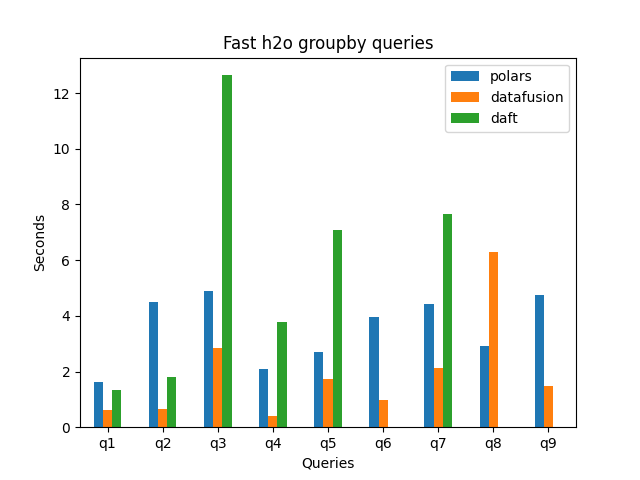
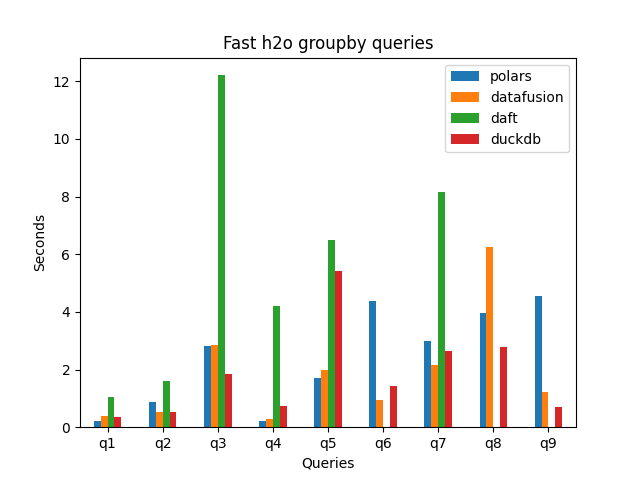
add duckdb groupby queries

diff --git a/benchmarks/duckdb_h2o_groupby_queries.py b/benchmarks/duckdb_h2o_groupby_queries.py
@@ -1,42 +1,83 @@
 import duckdb
+from helpers import benchmark, get_results
+import sys
+import pandas as pd
 
-def q1(df):
-    return duckdb.sql(f"SELECT * FROM read_parquet('{df}');").df()
-
-
-def q2(ctx):
-    return ctx.sql("select id1, id2, sum(v1) as v1 from x group by id1, id2").collect()
-
-
-def q3(ctx):
-    return ctx.sql("select count(distinct(id3)) from x").collect()
-    # return ctx.sql("select id3, sum(v1) as v1, avg(v3) as v3 from x group by id3").collect()
+def q1(path):
+    return duckdb.sql(f"SELECT id1, sum(v1) as v1 FROM read_parquet('{path}') group by id1;").df()
 
 
-def q4(ctx):
-    return ctx.sql("select id4, avg(v1) as v1, avg(v2) as v2, avg(v3) as v3 from x group by id4").collect()
+def q2(path):
+    return duckdb.sql(f"select id1, id2, sum(v1) as v1 from read_parquet('{path}') group by id1, id2").df()
 
 
-def q5(ctx):
-    return ctx.sql("select id6, sum(v1) as v1, sum(v2) as v2, sum(v3) as v3 from x group by id6").collect()
+def q3(path):
+    return duckdb.sql(f"select count(distinct(id3)) from read_parquet('{path}')").df()
 
 
-def q6(ctx):
-    return ctx.sql("select id4, id5, median(v3) as median_v3, stddev(v3) as sd_v3 from x group by id4, id5").collect()
+def q4(path):
+    return duckdb.sql(f"select id4, avg(v1) as v1, avg(v2) as v2, avg(v3) as v3 from read_parquet('{path}') group by id4").df()
 
 
-def q7(ctx):
-    return ctx.sql("select id3, max(v1)-min(v2) as range_v1_v2 from x group by id3").collect()
+def q5(path):
+    return duckdb.sql(f"select id6, sum(v1) as v1, sum(v2) as v2, sum(v3) as v3 from read_parquet('{path}') group by id6").df()
 
 
-def q8(ctx):
-    return ctx.sql("select id6, largest2_v3 from (select id6, v3 as largest2_v3, row_number() over (partition by id6 order by v3 desc) as order_v3 from x where v3 is not null) sub_query where order_v3 <= 2").collect()
+def q6(path):
+    return duckdb.sql(f"select id4, id5, median(v3) as median_v3, stddev(v3) as sd_v3 from read_parquet('{path}') group by id4, id5").df()
 
 
-def q9(ctx):
-    return ctx.sql("select id2, id4, power(corr(v1, v2), 2) as r2 from x group by id2, id4").collect()
+def q7(path):
+    return duckdb.sql(f"select id3, max(v1)-min(v2) as range_v1_v2 from read_parquet('{path}') group by id3").df()
 
 
-def q10(ctx):
-    return ctx.sql("select id1, id2, id3, id4, id5, id6, sum(v3) as v3, count(*) as count from x group by id1, id2, id3, id4, id5, id6").collect()
+def q8(path):
+    return duckdb.sql(f"select id6, largest2_v3 from (select id6, v3 as largest2_v3, row_number() over (partition by id6 order by v3 desc) as order_v3 from read_parquet('{path}') where v3 is not null) sub_query where order_v3 <= 2").df()
 
+
+def q9(path):
+    return duckdb.sql(f"select id2, id4, power(corr(v1, v2), 2) as r2 from read_parquet('{path}') group by id2, id4").df()
+
+
+def q10(path):
+    return duckdb.sql(f"select id1, id2, id3, id4, id5, id6, sum(v3) as v3, count(*) as count from read_parquet('{path}') group by id1, id2, id3, id4, id5, id6").df()
+
+
+paths = [sys.argv[1]]
+def run_benchmarks(paths):
+    path = paths[0]
+
+    duckdb_benchmarks = {
+        "duration": [],  # in seconds
+        "task": [],
+    }
+
+    benchmark(q1, dfs=path, benchmarks=duckdb_benchmarks, name="q1")
+    benchmark(q2, dfs=path, benchmarks=duckdb_benchmarks, name="q2")
+    benchmark(q3, dfs=path, benchmarks=duckdb_benchmarks, name="q3")
+    benchmark(q4, dfs=path, benchmarks=duckdb_benchmarks, name="q4")
+    benchmark(q5, dfs=path, benchmarks=duckdb_benchmarks, name="q5")
+    benchmark(q6, dfs=path, benchmarks=duckdb_benchmarks, name="q6")
+    benchmark(q7, dfs=path, benchmarks=duckdb_benchmarks, name="q7")
+    benchmark(q8, dfs=path, benchmarks=duckdb_benchmarks, name="q8")
+    benchmark(q9, dfs=path, benchmarks=duckdb_benchmarks, name="q9")
+    # benchmark(q10, dfs=path, benchmarks=duckdb_benchmarks, name="q10")
+
+    duckdb_res_temp = get_results(duckdb_benchmarks).set_index("task")
+    print(duckdb_res_temp)
+    return duckdb_res_temp
+
+
+def run_benchmarks_slow(paths):
+    path = paths[0]
+
+    duckdb_benchmarks = {
+        "duration": [],  # in seconds
+        "task": [],
+    }
+
+    benchmark(q10, dfs=path, benchmarks=duckdb_benchmarks, name="q10")
+
+    duckdb_res_temp = get_results(duckdb_benchmarks).set_index("task")
+    print(duckdb_res_temp)
+    return duckdb_res_temp

diff --git a/benchmarks/run_all_groupby.py b/benchmarks/run_all_groupby.py
@@ -6,39 +6,49 @@ import pandas as pd
 import polars_h2o_groupby_queries
 import datafusion_h2o_groupby_queries
 import daft_h2o_groupby_queries
+import duckdb_h2o_groupby_queries
 from datafusion import SessionContext
 
 path = sys.argv[1]
 
 # Fast group by queries
 
-# polars
-print("*** Polars ***")
-df = pl.scan_parquet(path, low_memory=True)
-polars_res = polars_h2o_groupby_queries.run_benchmarks([df]).rename(columns={"duration": "polars"})
-print(polars_res)
+# # polars
+# print("*** Polars ***")
+# df = pl.scan_parquet(path, low_memory=True)
+# polars_res = polars_h2o_groupby_queries.run_benchmarks([df]).rename(columns={"duration": "polars"})
+# print(polars_res)
 
-# datafusion
-print("*** DataFusion ***")
-ctx = SessionContext()
-df = ctx.register_parquet("x", path)
-datafusion_res = datafusion_h2o_groupby_queries.run_benchmarks(ctx).rename(columns={"duration": "datafusion"})
-print(datafusion_res)
+# # datafusion
+# print("*** DataFusion ***")
+# ctx = SessionContext()
+# df = ctx.register_parquet("x", path)
+# datafusion_res = datafusion_h2o_groupby_queries.run_benchmarks(ctx).rename(columns={"duration": "datafusion"})
+# print(datafusion_res)
 
-# daft
-print("*** Daft ***")
-df = daft.read_parquet(path)
-daft_res = daft_h2o_groupby_queries.run_benchmarks([df]).rename(columns={"duration": "daft"})
+# # daft
+# print("*** Daft ***")
+# df = daft.read_parquet(path)
+# daft_res = daft_h2o_groupby_queries.run_benchmarks([df]).rename(columns={"duration": "daft"})
 
-# all results
-res = polars_res.join(datafusion_res, on="task").join(daft_res, on="task")
-print(res)
+# # duckdb
+# print("*** DuckDB ***")
+# duckdb_res = duckdb_h2o_groupby_queries.run_benchmarks([path]).rename(columns={"duration": "duckdb"})
 
-ax = res.plot.bar(rot=0)
-ax.set_title('Fast h2o groupby queries')
-ax.set_ylabel('Seconds')
-ax.set_xlabel('Queries')
-ax.figure.savefig("images/groupby-fast.png")
+# # all results
+# res = (
+#     polars_res
+#     .join(datafusion_res, on="task")
+#     .join(daft_res, on="task")
+#     .join(duckdb_res, on="task")
+# )
+# print(res)
+
+# ax = res.plot.bar(rot=0)
+# ax.set_title('Fast h2o groupby queries')
+# ax.set_ylabel('Seconds')
+# ax.set_xlabel('Queries')
+# ax.figure.savefig("images/groupby-fast.png")
 
 # Slow group by queries
 
@@ -60,8 +70,12 @@ print("*** Daft ***")
 df = daft.read_parquet(path)
 daft_res = daft_h2o_groupby_queries.run_benchmarks_slow([df]).rename(columns={"duration": "daft"})
 
+# duckdb
+print("*** DuckDB ***")
+duckdb_res = duckdb_h2o_groupby_queries.run_benchmarks_slow([path]).rename(columns={"duration": "duckdb"})
+
 # all results
-res = polars_res.join(datafusion_res, on="task").join(daft_res, on="task")
+res = polars_res.join(datafusion_res, on="task").join(daft_res, on="task").join(duckdb_res, on="task")
 print(res)
 
 ax = res.plot.bar(rot=0)

diff --git a/benchmarks/polars_h2o_groupby_queries.py b/benchmarks/polars_h2o_groupby_queries.py
@@ -4,32 +4,32 @@ from helpers import benchmark, get_results
 
 
 def q1(df):
-    return df.group_by("id1").agg(pl.sum("v1")).collect()
+    return df.group_by("id1").agg(pl.sum("v1")).collect(engine="streaming")
 
 
 def q2(df):
-    return df.group_by(["id1", "id2"]).agg(pl.sum("v1")).collect()
+    return df.group_by(["id1", "id2"]).agg(pl.sum("v1")).collect(engine="streaming")
 
 
 def q3(df):
-    return df.group_by("id3").agg([pl.sum("v1"), pl.mean("v3")]).collect()
+    return df.group_by("id3").agg([pl.sum("v1"), pl.mean("v3")]).collect(engine="streaming")
 
 
 def q4(df):
     return (
-        df.group_by("id4").agg([pl.mean("v1"), pl.mean("v2"), pl.mean("v3")]).collect()
+        df.group_by("id4").agg([pl.mean("v1"), pl.mean("v2"), pl.mean("v3")]).collect(engine="streaming")
     )
 
 
 def q5(df):
-    return df.group_by("id6").agg([pl.sum("v1"), pl.sum("v2"), pl.sum("v3")]).collect()
+    return df.group_by("id6").agg([pl.sum("v1"), pl.sum("v2"), pl.sum("v3")]).collect(engine="streaming")
 
 
 def q6(df):
     return (
         df.group_by(["id4", "id5"])
         .agg([pl.median("v3").alias("v3_median"), pl.std("v3").alias("v3_std")])
-        .collect()
+        .collect(engine="streaming")
     )
 
 
@@ -37,23 +37,23 @@ def q7(df):
     return (
         df.group_by("id3")
         .agg([(pl.max("v1") - pl.min("v2")).alias("range_v1_v2")])
-        .collect()
+        .collect(engine="streaming")
     )
 
 
 def q8(df):
-    return df.drop_nulls("v3").group_by("id6").agg(col("v3").top_k(2).alias("largest2_v3")).explode("largest2_v3").collect()
+    return df.drop_nulls("v3").group_by("id6").agg(col("v3").top_k(2).alias("largest2_v3")).explode("largest2_v3").collect(engine="streaming")
 
 
 def q9(df):
-    return df.group_by(["id2","id4"]).agg((pl.corr("v1","v2", method="pearson")**2).alias("r2")).collect()
+    return df.group_by(["id2","id4"]).agg((pl.corr("v1","v2", method="pearson")**2).alias("r2")).collect(engine="streaming")
 
 
 def q10(df):
     return (
         df.group_by(["id1", "id2", "id3", "id4", "id5", "id6"])
         .agg([pl.sum("v3").alias("v3"), pl.count("v1").alias("count")])
-        .collect()
+        .collect(engine="streaming")
     )
 
 def run_benchmarks(dfs):

diff --git a/benchmarks/duckdb_h2o_groupby.py b/benchmarks/duckdb_h2o_groupby.py
@@ -5,22 +5,22 @@ from duckdb_h2o_groupby_queries import *
 
 path = sys.argv[1]
 
-polars_benchmarks = {
+duckdb_benchmarks = {
     "duration": [],  # in seconds
     "task": [],
 }
 
-benchmark(q1, df=path, benchmarks=polars_benchmarks, name="q1")
-# benchmark(q2, df=df, benchmarks=polars_benchmarks, name="q2")
-# benchmark(q3, df=df, benchmarks=polars_benchmarks, name="q3")
-# benchmark(q4, df=df, benchmarks=polars_benchmarks, name="q4")
-# benchmark(q5, df=df, benchmarks=polars_benchmarks, name="q5")
-# benchmark(q6, df=df, benchmarks=polars_benchmarks, name="q6")
-# benchmark(q7, df=df, benchmarks=polars_benchmarks, name="q7")
-# benchmark(q8, df=df, benchmarks=polars_benchmarks, name="q8")
-# benchmark(q9, df=df, benchmarks=polars_benchmarks, name="q9")
-# benchmark(q10, df=df, benchmarks=polars_benchmarks, name="q10")
+benchmark(q1, dfs=path, benchmarks=duckdb_benchmarks, name="q1")
+benchmark(q2, dfs=path, benchmarks=duckdb_benchmarks, name="q2")
+benchmark(q3, dfs=path, benchmarks=duckdb_benchmarks, name="q3")
+benchmark(q4, dfs=path, benchmarks=duckdb_benchmarks, name="q4")
+benchmark(q5, dfs=path, benchmarks=duckdb_benchmarks, name="q5")
+benchmark(q6, dfs=path, benchmarks=duckdb_benchmarks, name="q6")
+benchmark(q7, dfs=path, benchmarks=duckdb_benchmarks, name="q7")
+benchmark(q8, dfs=path, benchmarks=duckdb_benchmarks, name="q8")
+benchmark(q9, dfs=path, benchmarks=duckdb_benchmarks, name="q9")
+# benchmark(q10, dfs=path, benchmarks=duckdb_benchmarks, name="q10")
 
-polars_res_temp = get_results(polars_benchmarks).set_index("task")
+duckdb_res_temp = get_results(duckdb_benchmarks).set_index("task")
 
-print(polars_res_temp)
+print(duckdb_res_temp)

diff --git a/benchmarks/polars_h2o_join_queries.py b/benchmarks/polars_h2o_join_queries.py
@@ -4,27 +4,27 @@ import polars as pl
 
 def q1(dfs):
 	x, small, medium, large = dfs
-	return x.join(small, on="id1").collect()	
+	return x.join(small, on="id1").collect(engine="streaming")	
 
 
 def q2(dfs):
     x, small, medium, large = dfs
-    return x.join(medium, on="id2").collect()
+    return x.join(medium, on="id2").collect(engine="streaming")
 
 
 def q3(dfs):
     x, small, medium, large = dfs
-    return x.join(medium, how="left", on="id2").collect()
+    return x.join(medium, how="left", on="id2").collect(engine="streaming")
 
 
 def q4(dfs):
     x, small, medium, large = dfs
-    return x.join(medium, on="id5").collect()
+    return x.join(medium, on="id5").collect(engine="streaming")
     
 
 def q5(dfs):
     x, small, medium, large = dfs
-    return x.join(large, on="id3").collect()
+    return x.join(large, on="id3").collect(engine="streaming")
     
 
 def run_benchmarks(dfs):
